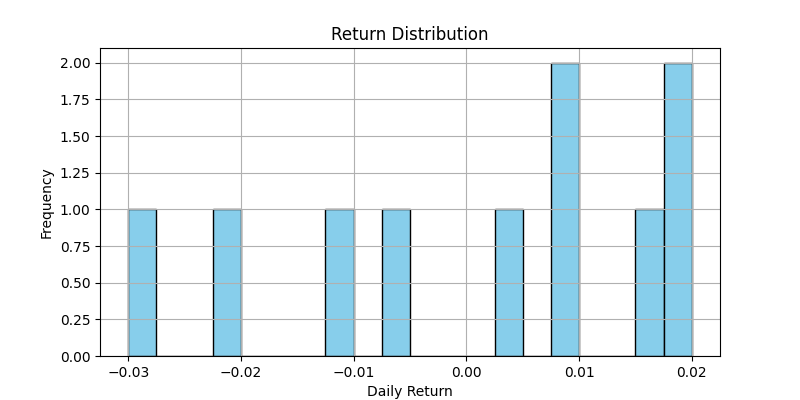
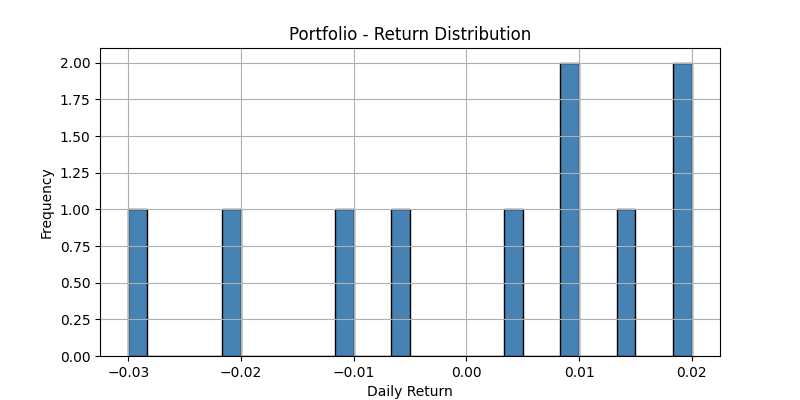
new update

diff --git a/src/risk_visualizer.py b/src/risk_visualizer.py
@@ -1,25 +1,39 @@
 import matplotlib.pyplot as plt
+import numpy as np
 import pandas as pd
 
 class RiskVisualizer:
-    def __init__(self, returns: pd.Series):
+    def __init__(self, returns,ticker="Portfolio"):
         self.returns = returns.dropna()
+        self.ticker = ticker
 
     def plot_drawdown(self, save_path=None):
+        """
+        Plot cumulative drawdown over time.
+        """
         cumulative = (1 + self.returns).cumprod()
         peak = cumulative.cummax()
         drawdown = (cumulative - peak) / peak
 
         plt.figure(figsize=(10, 4))
-        drawdown.plot(color='red', title='Drawdown Curve')
-        
-    def plot_return_distribution(self, save_path=None):
+        drawdown.plot(color='red')
+        plt.title(f"{{self.ticker}} Drawdown Over Time")
+        plt.ylabel('Drawdown')
+        plt.xlabel('Date')
+        plt.grid(True)
+        if save_path:
+            plt.savefig(save_path)
+        else:
+            plt.show()
+            
+            
+    def plot_return_distribution(self,bins=30, save_path=None):
      """
      Histogram of daily returns.
      """
      plt.figure(figsize=(8, 4))
-     self.returns.hist(bins=20, color='skyblue', edgecolor='black')
-     plt.title('Return Distribution')
+     plt.hist(self.returns, bins=bins, color='steelblue', edgecolor='black')
+     plt.title(f"{self.ticker} - Return Distribution")
      plt.xlabel('Daily Return')
      plt.ylabel('Frequency')
      plt.grid(True)
@@ -29,7 +43,6 @@ class RiskVisualizer:
         plt.show()
         
         
-
     def calculate_rolling_volatility(self, window=20):
      """
      Rolling volatility over a specified window (default: 20 days).
@@ -38,48 +51,59 @@ class RiskVisualizer:
      return rolling_vol
 
 
-def calculate_sharpe_ratio(self, risk_free_rate=0.01):
-    """
-    Sharpe ratio using mean excess return over volatility.
-    Assumes daily returns and annualizes.
-    """
-    excess_return = self.returns.mean() * 252 - risk_free_rate
-    volatility = self.returns.std() * np.sqrt(252)
-    sharpe = excess_return / volatility if volatility != 0 else np.nan
-    return round(sharpe, 4)
+    def calculate_sharpe_ratio(self, risk_free_rate=0.01):
+     """
+     Sharpe ratio using mean excess return over volatility.
+     Assumes daily returns and annualizes.
+     """
+     excess_return = self.returns.mean() * 252 - risk_free_rate
+     volatility = self.returns.std() * np.sqrt(252)
+     sharpe = excess_return / volatility if volatility != 0 else np.nan
+     return round(sharpe, 4)
 
-def plot_rolling_volatility(self, window=20, save_path=None):
-    rolling_vol = self.returns.rolling(window).std() * np.sqrt(252)
+    def plot_rolling_volatility(self, window=20, save_path=None):
+     """
+     Plot rolling volatility over time.
+     """
+     import matplotlib.pyplot as plt
+     import numpy as np
+     
+     rolling_vol = self.returns.rolling(window).std() * np.sqrt(252)
 
-    plt.figure(figsize=(10, 4))
-    rolling_vol.plot(title=f'{window}-Day Rolling Volatility', color='purple')
-    plt.ylabel('Volatility')
-    plt.grid(True)
-    if save_path:
+     plt.figure(figsize=(10, 4))
+     rolling_vol.plot(title=f'{window}-Day Rolling Volatility', color='purple')
+     plt.title(f"{self.ticker} - {window}-Day Rolling Volatility")
+     plt.xlabel('Date')
+     plt.ylabel('Annualized Volatility')
+     plt.grid(True)
+     if save_path:
         plt.savefig(save_path)
-    else:
+     else:
         plt.show()
         
         
-def plot_comparison(self, benchmark_returns, save_path=None):
-    """
-    Compare cumulative returns of portfolio vs benchmark.
-    """
-    portfolio_cum = (1 + self.returns).cumprod()
-    benchmark_cum = (1 + benchmark_returns.dropna()).cumprod()
+    def plot_comparison(self, benchmark_returns, save_path=None):
+     """
+     Compare cumulative returns of portfolio vs benchmark.
+     """
+     portfolio_cum = (1 + self.returns).cumprod()
+     benchmark_cum = (1 + benchmark_returns.dropna()).cumprod()
 
-    plt.figure(figsize=(10, 4))
-    portfolio_cum.plot(label='Portfolio', color='blue')
-    benchmark_cum.plot(label='Benchmark', color='green')
-    plt.title('Portfolio vs Benchmark Cumulative Returns')
-    plt.ylabel('Growth')
-    plt.legend()
-    plt.grid(True)
-    if save_path:
+     plt.figure(figsize=(10, 4))
+     portfolio_cum.plot(label='Portfolio', color='blue')
+     benchmark_cum.plot(label='Benchmark', color='green')
+     plt.title(f"{self.ticker} vs Benchmark - Cumulative Returns")
+     plt.xlabel('Date')
+     plt.ylabel('Growth of $1')
+     plt.legend()
+     plt.grid(True)
+     if save_path:
         plt.savefig(save_path)
-    else:
+     else:
         plt.show()
-        
+
+
+    # The following method is a duplicate and should be removed to avoid confusion and errors.
 
 
     

diff --git a/src/risk_calculator.py b/src/risk_calculator.py
@@ -30,3 +30,12 @@ class RiskCalculator:
         max_dd = drawdown.min()
         return round(max_dd, 4)
     
+    def calculate_sharpe_ratio(self, risk_free_rate=0.01):
+     """
+     Sharpe ratio using mean excess return over volatility.
+     Assumes daily returns and annualizes.
+     """
+     excess_return = self.returns.mean() * 252 - risk_free_rate
+     volatility = self.returns.std() * np.sqrt(252)
+     sharpe = excess_return / volatility if volatility != 0 else np.nan
+     return round(sharpe, 4)
